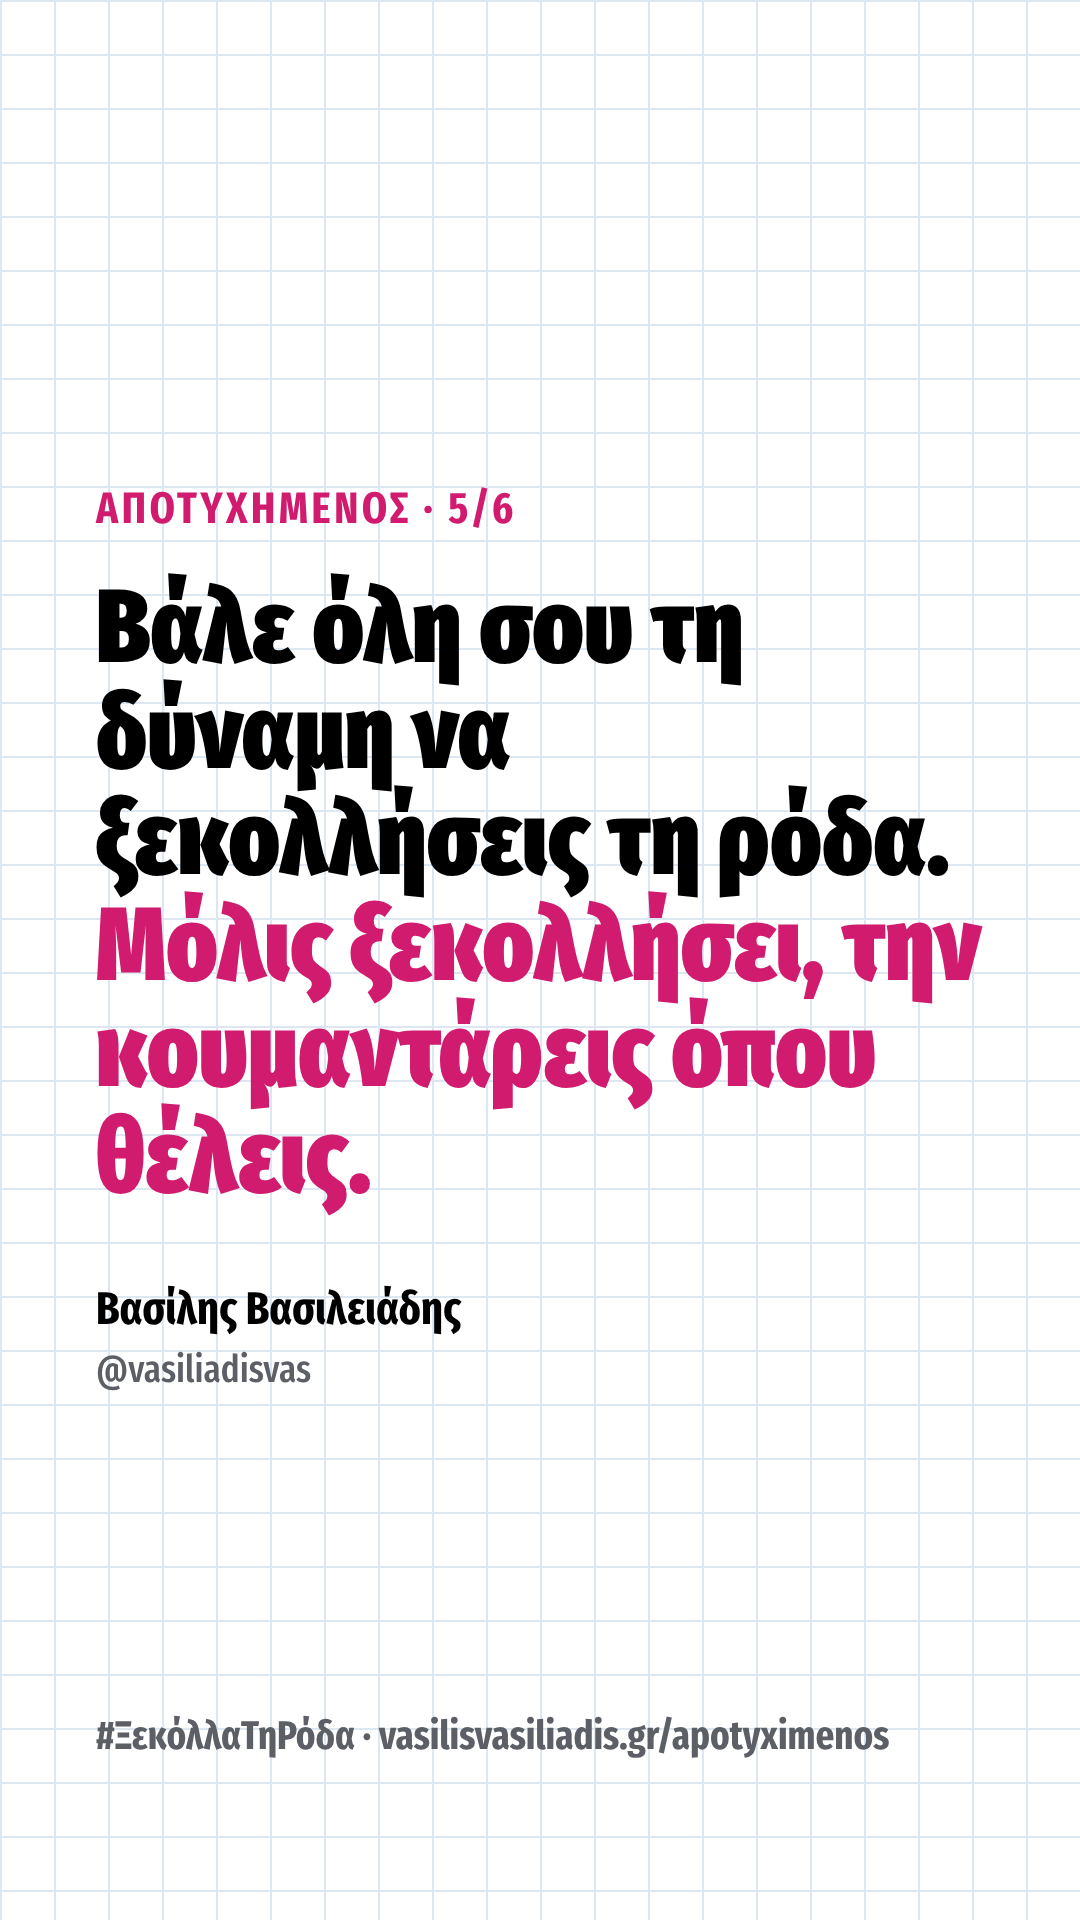
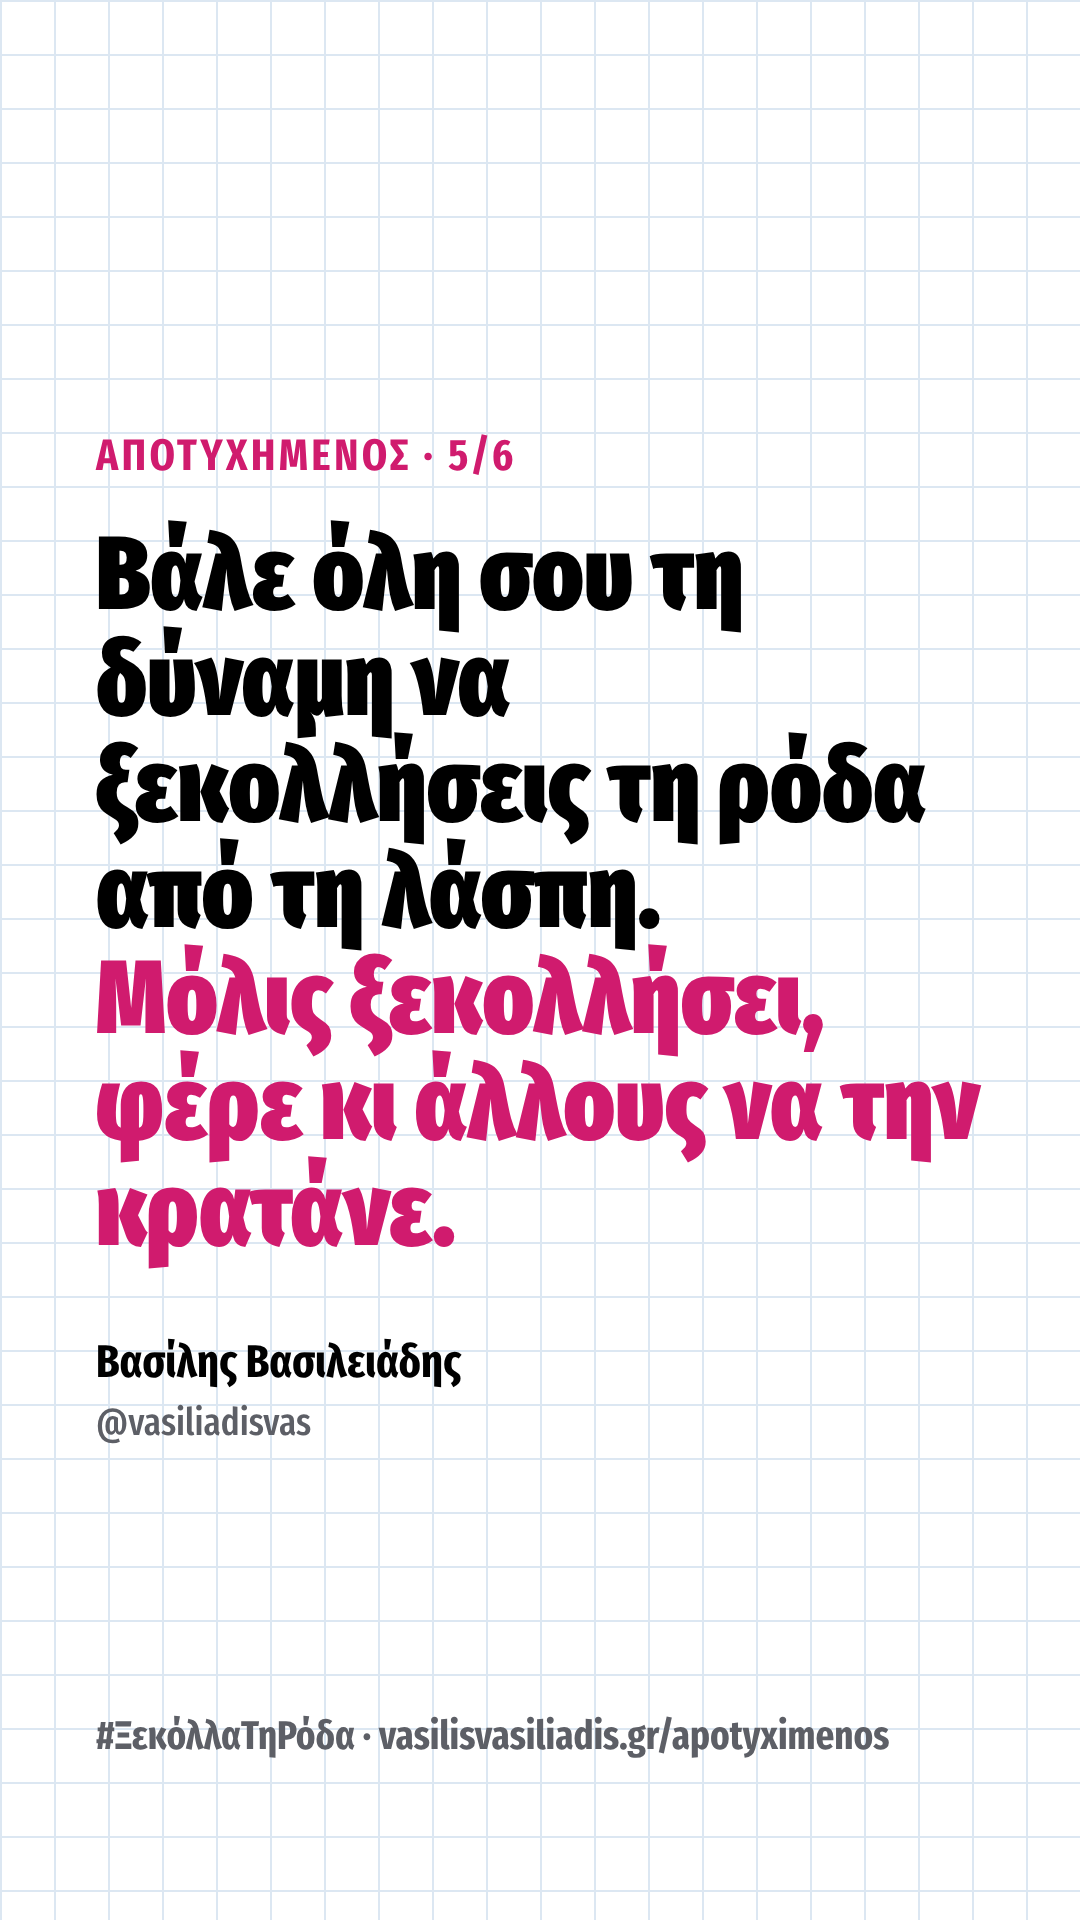
Κάρτες 5 και 6 σύμφωνες με το τελικό κείμενο, σελίδα: 22 σελίδες
Claude-Session: https://claude.ai/code/session_01N2sKS18vKtYhLkn1z2JQ9J

Changed region(s): [[0.0917, 0.2188, 0.9167, 0.75]]

diff --git a/src/app/apotyximenos/page.tsx b/src/app/apotyximenos/page.tsx
@@ -18,7 +18,7 @@ export const metadata: Metadata = {
 };
 
 const inside = [
-  { n: "21", t: "σελίδες: το γκισέ στα Γιαννιτσά, ένα δωμάτιο στο Γκέτεμποργκ, το τηλέφωνο που δεν χτύπησε ποτέ, το ξεκίνημα από το μηδέν. Και οι στίχοι ενός τραγουδιού που δεν έχει κυκλοφορήσει ακόμα." },
+  { n: "22", t: "σελίδες: το γκισέ στα Γιαννιτσά, ένα δωμάτιο στο Γκέτεμποργκ, το τηλέφωνο που δεν χτύπησε ποτέ, το ξεκίνημα από το μηδέν. Και οι στίχοι ενός τραγουδιού που δεν έχει κυκλοφορήσει ακόμα." },
   { n: "4", t: "ερωτήσεις στο τέλος. Μία γραμμή η καθεμία. Για να γράψεις και τη δική σου ιστορία." },
   { n: "1", t: "εξίσωση: Επιτυχία = Αποτυχία + Πίστη + Επιμονή + Σκληρή δουλειά. Με ένα εργαλείο για κάθε συνθετικό." },
   { n: "7", t: "μέρες πρόκληση «Ξεκόλλα τη ρόδα». Επτά κινήσεις, 20 λεπτά τη μέρα." },

diff --git a/ebook/cards.js b/ebook/cards.js
@@ -4,8 +4,8 @@ const cards = [
   ["Όποιος ντρέπεται να κάνει ένα βήμα πίσω,", "δεν θα κάνει ποτέ δύο μπροστά."],
   ["Την απουσία των δικών σου ανθρώπων δεν τη μετράς.", "Μόνο την πληρώνεις."],
   ["Το «απέτυχα» είναι γεγονός. Το «είμαι αποτυχημένος» είναι ταυτότητα.", "Διάλεξε ποιο θα κρατήσεις."],
-  ["Βάλε όλη σου τη δύναμη να ξεκολλήσεις τη ρόδα.", "Μόλις ξεκολλήσει, την κουμαντάρεις όπου θέλεις."],
-  ["Επιμονή δεν είναι μια ηρωική στιγμή.", "Είναι να το ξανακάνεις αύριο."],
+  ["Βάλε όλη σου τη δύναμη να ξεκολλήσεις τη ρόδα από τη λάσπη.", "Μόλις ξεκολλήσει, φέρε κι άλλους να την κρατάνε."],
+  ["Αν πουλάς φτηνά επειδή φοβάσαι,", "θα σε αγοράζουν φτηνά επειδή το μυρίζονται."],
 ];
 (async () => {
   const out = process.argv[2];
